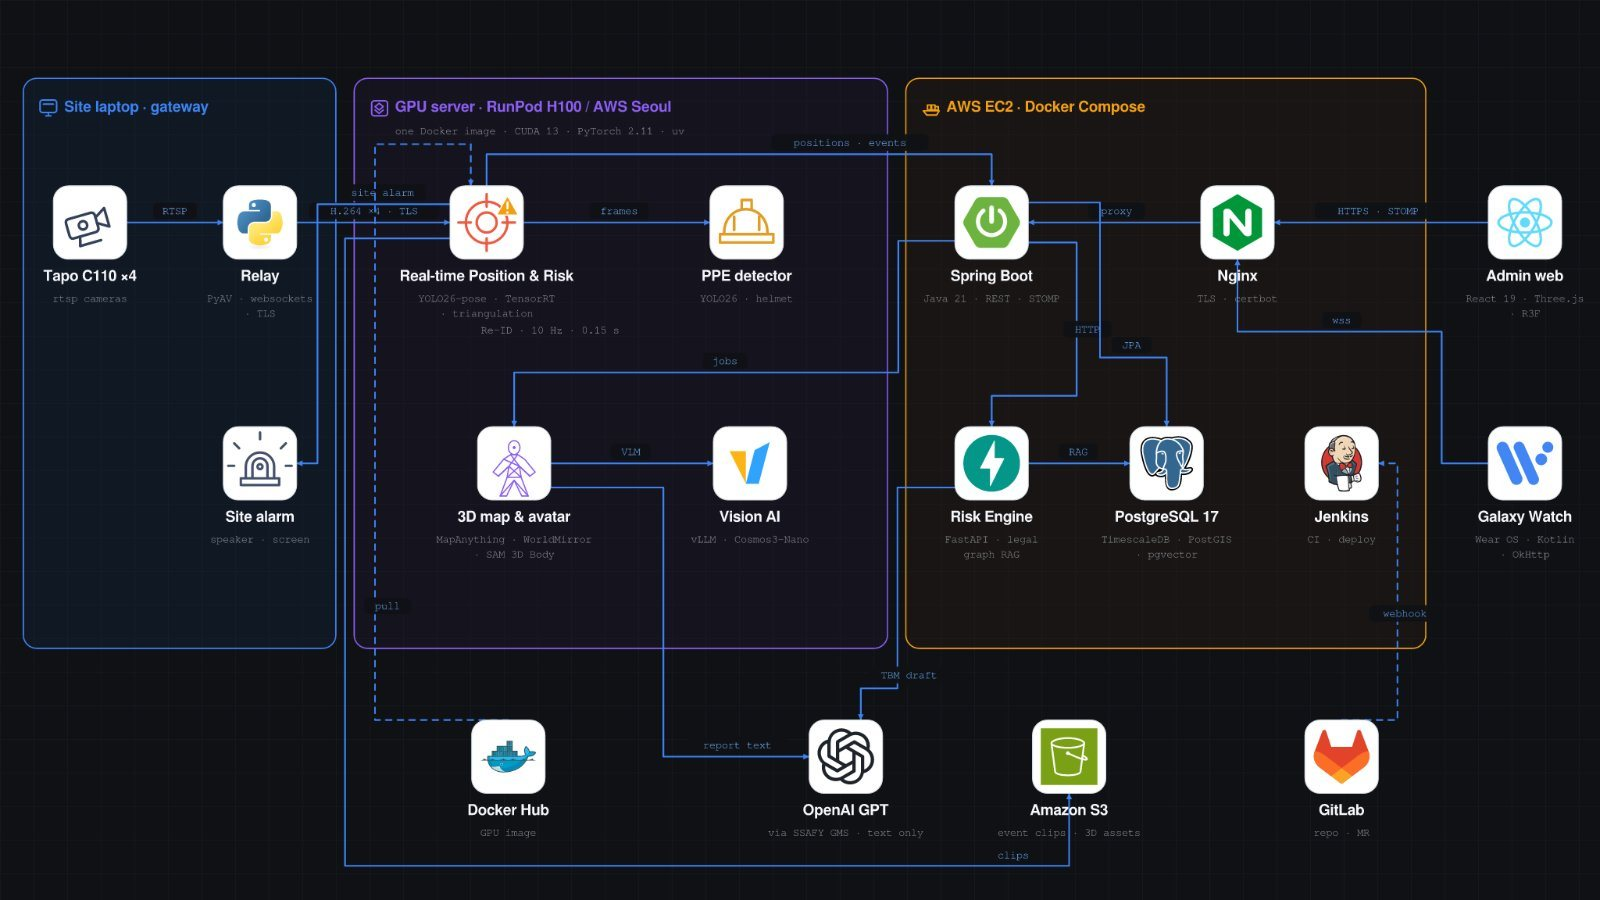
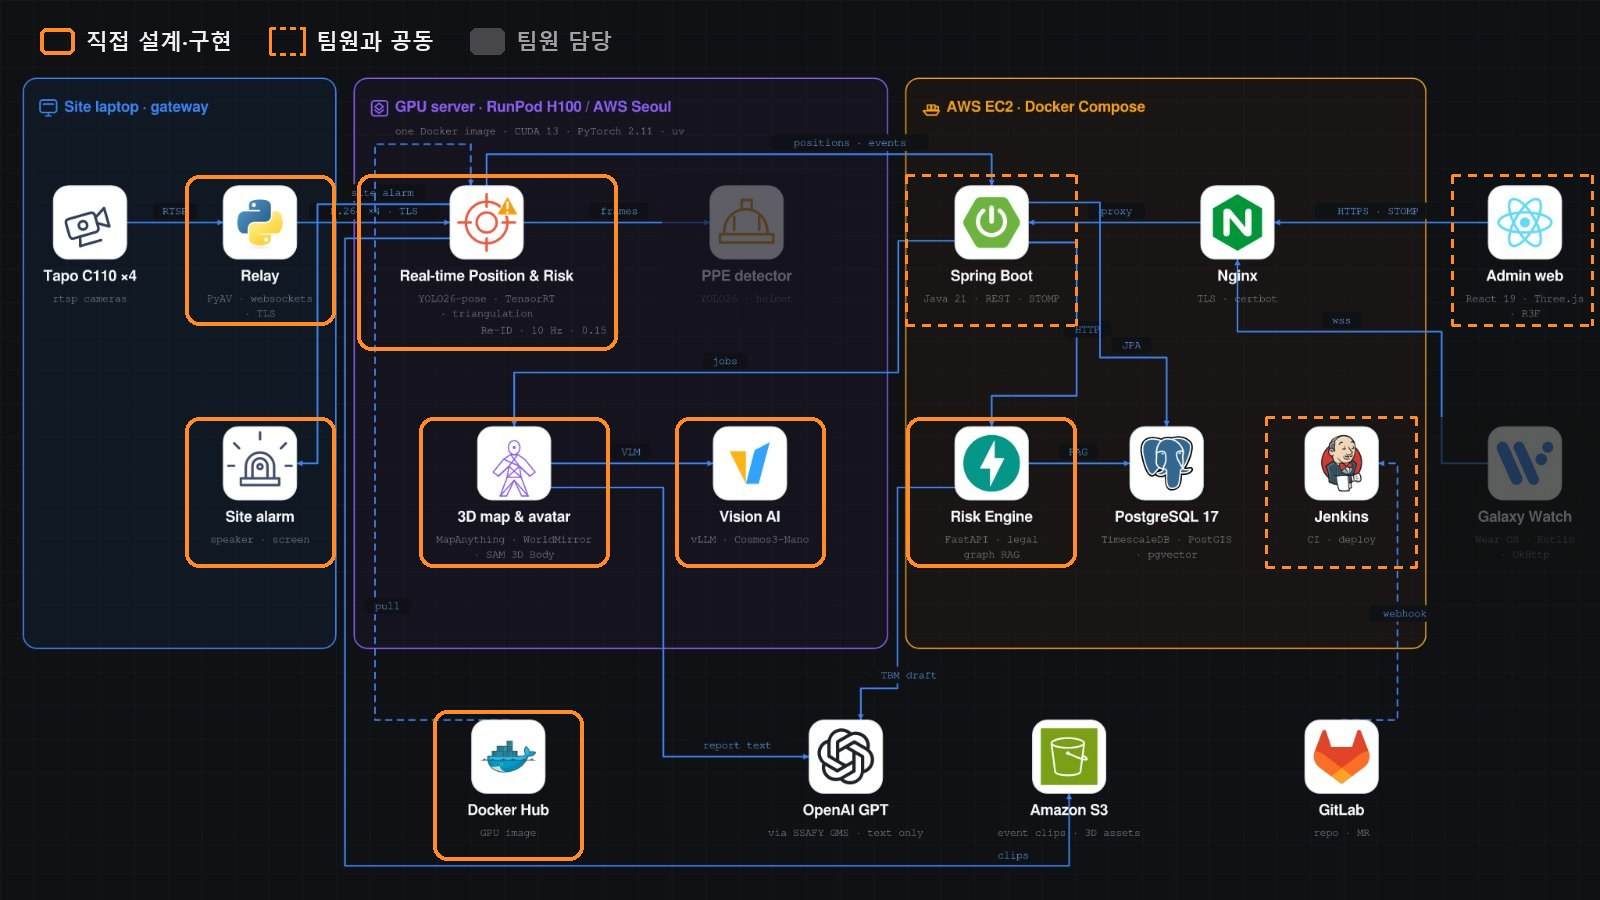
SimAI: show ownership on the architecture figure instead of per-figure tags

diff --git a/projects.js b/projects.js
@@ -15,24 +15,20 @@ const PROJECTS = [
     tags: ['Python', 'TensorRT', 'Three.js', 'Docker'],
     detail: {
       kicker: 'SSAFY 15기 자율 프로젝트 · Smart Integrated Monitoring AI',
-      info: [['기간', '2026.10 – 2026.11'], ['팀 인원', '5인'], ['나의 역할', '기술팀장 · 3D 추적·위험 판정 · AI 인프라'], ['기술', 'Python, YOLO26-pose, TensorRT, MapAnything·WorldMirror, vLLM(Cosmos3-Nano), GraphRAG, React·Three.js, Docker, AWS·RunPod, Jenkins']],
+      info: [['기간', '2026.10 – 2026.11'], ['팀 인원', '5인'], ['나의 역할', '기술팀장 · 시스템 설계와 AI·3D·인프라 구현'], ['기술', 'Python, YOLO26-pose, TensorRT, MapAnything·WorldMirror, vLLM(Cosmos3-Nano), GraphRAG, React·Three.js, Docker, AWS·RunPod, Jenkins']],
       overview: [
         '건설업 사망사고의 52.6%는 떨어짐 사고입니다. 현장마다 AI CCTV가 늘었지만, 2D 영상만 보는 AI는 사람이 "어디쯤" 있는지는 알아도 바닥에서 몇 m 위에 있는지, 개구부까지 얼마나 남았는지는 모릅니다. 매일 바뀌는 현장을 따라가지 못해 오탐이 쌓이고, 결국 경보를 꺼 두게 됩니다.',
         'SimAI는 추가 장비 없이 일반 CCTV 4대만으로 현장을 미터 단위 3D 공간으로 재현하고, 작업자를 3D 골격으로 추적해 위험 구역 진입·진입 예측·고소 작업·낙상 의심을 판정합니다. 판정 결과는 3D 관제 화면, 현장 경보음, 작업자 워치로 동시에 전달되고, 작업 전에는 현장 3D 맵 위에 AI가 위험 구역을 추천하고 법령 그래프로 TBM(작업 전 안전 대화) 보고서를 채웁니다. 카메라가 2대 미만에서만 본 관절은 지어내지 않고, 바닥을 모르면 높이를 0으로 채우지 않는 등 "모르면 비운다"를 판정 원칙으로 삼았습니다.'
       ],
       coverFig: { title: '위험 구역 접근 → 진입 경보',
-        desc: '작업자가 단상 개구부 쪽으로 다가가면 진입 예측으로 먼저 "위험구역 접근" 주의를 띄우고, 실제로 들어서면 "위험구역 진입" 위험 경보로 올립니다. 3D 관제 화면, 왼쪽 워치 화면, 현장 경보음이 같은 경보를 동시에 받습니다.',
-        mine: '내 담당: 3D 추적 · 위험 판정 · 경보 전달 경로' },
+        desc: '작업자가 단상 개구부 쪽으로 다가가면 진입 예측으로 먼저 "위험구역 접근" 주의를 띄우고, 실제로 들어서면 "위험구역 진입" 위험 경보로 올립니다. 3D 관제 화면, 왼쪽 워치 화면, 현장 경보음이 같은 경보를 동시에 받습니다.' },
       figs: [
+        { src: 'images/simai-arch.jpg', title: '시스템 구조와 제가 만든 범위',
+          desc: '주황 실선이 제가 설계하고 구현한 부분입니다. 현장 노트북의 영상 중계와 경보음, GPU 서버의 실시간 위치·위험 판정, 3D 맵·아바타, VLM 상황 해석, 법령 그래프 RAG(Risk Engine), 이 모두를 담은 GPU 이미지까지 처리 흐름의 처음부터 끝까지를 맡았습니다. 점선(서버·관제 웹·CI)은 팀원과 함께 만들었고, 흐리게 표시한 보호구 탐지 모델과 갤럭시 워치 앱은 팀원이 맡았습니다.' },
         { video: [V + 'simai-fall.mp4', V + 'simai-fall.jpg'], title: '낙상 의심 감지',
-          desc: '머리 높이와 자세가 급격히 낮아지면 낙상 의심으로 판정해 진행 중인 다른 경보와 상관없이 워치와 현장 경보음을 즉시 다시 울립니다. 넘어지는 순간 추적 ID가 갈라지지 않도록 새로 생긴 트랙을 원래 사람에게 흡수하는 보정도 넣었습니다.',
-          mine: '내 담당: 낙상 판정 · ID 유지 · 즉시 알림' },
-        { src: 'images/simai-arch.jpg', title: '시스템 아키텍처',
-          desc: '현장 노트북이 카메라 4대의 영상을 TLS로 GPU 서버에 중계하면, GPU 서버 하나의 Docker 이미지 안에서 실시간 위치·위험 판정, 3D 맵·아바타 생성, 보호구 탐지, VLM 상황 해석이 함께 돕니다. 판정 결과는 EC2의 Spring Boot를 거쳐 관제 웹과 워치로 전달되고, 법령 그래프 RAG가 TBM 보고서 초안을 만듭니다.',
-          mine: '내 담당: 현장 노트북 · 실시간 위치·위험 판정 · 3D 맵·아바타 · Risk Engine(법령 그래프 RAG) · GPU 이미지·배포' },
+          desc: '머리 높이와 자세가 급격히 낮아지면 낙상 의심으로 판정해 진행 중인 다른 경보와 상관없이 워치와 현장 경보음을 즉시 다시 울립니다. 넘어지는 순간 추적 ID가 갈라지지 않도록 새로 생긴 트랙을 원래 사람에게 흡수하는 보정도 넣었습니다.' },
         { video: [V + 'simai-setup.mp4', V + 'simai-setup.jpg'], title: '세팅 — 카메라 4대에서 3D 맵까지',
-          desc: '카메라 높이만 입력하면 배경 촬영 → 카메라 보정 → 3D 맵 생성 → AI 위험 구역 초안까지 세팅 화면 한 흐름으로 진행됩니다. 같은 현장이면 이전에 만든 맵을 GPU 없이 1~2분 만에 다시 씁니다.',
-          mine: '내 담당: 세팅 흐름 · 무마커 카메라 보정 · 맵 재사용' },
+          desc: '카메라 높이만 입력하면 배경 촬영 → 카메라 보정 → 3D 맵 생성 → AI 위험 구역 초안까지 세팅 화면 한 흐름으로 진행됩니다. 같은 현장이면 이전에 만든 맵을 GPU 없이 1~2분 만에 다시 씁니다.' },
         { pair: ['images/simai-cams.jpg', 'images/simai-map.jpg'], title: 'CCTV 4대로 만든 3D 공간',
           desc: '같은 시점에 찍힌 CCTV 4장(왼쪽)을 왜곡 보정한 뒤 카메라 위치와 깊이를 추정해 하나의 3D 맵(오른쪽)으로 융합합니다. LiDAR 같은 추가 장비 없이 만들었고, 점구름 바닥이 1° 남짓 기울어 카메라 높이가 최대 8 cm 어긋나던 문제는 카메라 실측 높이로 바닥 기울기를 보정해 최대 1.8 cm 안으로 맞췄습니다.' },
         { video: [V + 'simai-site.mp4', V + 'simai-site.jpg'], title: '실제 시연 현장',
@@ -40,11 +36,9 @@ const PROJECTS = [
         { src: 'images/simai-track.jpg', title: '다시점 삼각측량으로 3D 위치 측정',
           desc: '카메라마다 따로 붙인 2D 관절 ID를 카메라 쌍별로 검사해 같은 사람끼리 묶고, 다시점 삼각측량과 헝가리안 배정으로 하나의 3D ID를 유지합니다. 같은 키의 두 사람이 바닥과 단상에 서 있어도 높이로 구분하며, 검증 오차는 9 cm 이내입니다.' },
         { video: [V + 'simai-avatar.mp4', V + 'simai-avatar.jpg'], title: '실제 사람을 따라 움직이는 127관절 아바타',
-          desc: '추적한 사람에 127관절 3D 인체 모델(SAM 3D Body)을 맞추고, 카메라에 보인 옷 색을 입혀 실제 자세를 그대로 따라 움직이게 했습니다(왼쪽 아바타, 오른쪽 실제 촬영). 관제 화면에서 서 있는지, 웅크렸는지, 쓰러졌는지를 3D로 바로 볼 수 있습니다. 위치와 경보는 아바타가 아니라 삼각측량 결과로만 정합니다.',
-          mine: '내 담당: 아바타 생성 · 외형 입히기 · 관제 화면 스트림' },
+          desc: '추적한 사람에 127관절 3D 인체 모델(SAM 3D Body)을 맞추고, 카메라에 보인 옷 색을 입혀 실제 자세를 그대로 따라 움직이게 했습니다(왼쪽 아바타, 오른쪽 실제 촬영). 관제 화면에서 서 있는지, 웅크렸는지, 쓰러졌는지를 3D로 바로 볼 수 있습니다. 위치와 경보는 아바타가 아니라 삼각측량 결과로만 정합니다.' },
         { src: 'images/simai-graph.jpg', title: '법령 그래프 RAG로 채우는 TBM 보고서',
-          desc: '산업안전 법령의 참조·위임·준용 관계를 노드 7,963개·엣지 14,265개 그래프로 만들고 임베딩 검색과 결합해, 작업 공종에 맞는 위험 요인과 방호 조치를 찾아 TBM(작업 전 안전 대화) 보고서를 채웁니다. 외부 LLM에는 문장 작성만 맡기고 텍스트만 보냅니다.',
-          mine: '내 담당: 법령 그래프 · Risk Engine · TBM 보고서 API·화면' }
+          desc: '산업안전 법령의 참조·위임·준용 관계를 노드 7,963개·엣지 14,265개 그래프로 만들고 임베딩 검색과 결합해, 작업 공종에 맞는 위험 요인과 방호 조치를 찾아 TBM(작업 전 안전 대화) 보고서를 채웁니다. 외부 LLM에는 문장 작성만 맡기고 텍스트만 보냅니다.' }
       ],
       role: [
         '<b>기술팀장</b> — 기획서·요구사항·파트 간 JSON Schema 계약의 정본 관리, Jira 에픽·스토리 설계. Claude Code·Codex 등 AI 코딩 에이전트를 티켓 단위로 운영하며 요구·완료 조건 정의, 작업 분할, 결과 검증과 통합 담당',
@@ -410,7 +404,7 @@ const PROJECTS = [
 
 // 프로젝트 개요 맨 위 '한눈에 보기' — 문제 · 해결 · 핵심 · 결과
 const GLANCE = {
-  simai: [['문제', '2D CCTV AI는 사람의 높이와 개구부까지의 거리를 몰라 추락 위험을 놓치거나 오탐을 냄'], ['해결', '일반 CCTV 4대로 현장 3D 맵을 만들고 작업자를 미터 단위 3D 골격으로 추적'], ['핵심 기능', '3D 위치·자세 추적, 진입 예측·낙상 판정, 관제·워치·현장 경보, AI 구역 추천·TBM 보고서'], ['결과', 'CCTV 4대로 만든 3D 맵, 3D 위치 검증 오차 9 cm 이내, 촬영→워치 진동 0.3초']],
+  simai: [['내 역할', '기술팀장 — 시스템 구조를 설계하고 실시간 추적·위험 판정, 3D 맵·아바타, 법령 RAG, 현장·GPU 인프라를 직접 구현'], ['문제', '2D CCTV AI는 사람의 높이와 개구부까지의 거리를 몰라 추락 위험을 놓치거나 오탐을 냄'], ['해결', '일반 CCTV 4대로 현장 3D 맵을 만들고 작업자를 3D 골격으로 추적해 진입 예측·낙상을 판정, 관제·워치·현장 경보로 전달'], ['결과', 'CCTV 4대로 만든 3D 맵, 3D 위치 검증 오차 9 cm 이내, 촬영→워치 진동 0.3초']],
   pave: [['문제', '팀마다 검증 환경이 달라 자율주행 알고리즘을 공정하게 비교하기 어려움'], ['해결', '같은 시나리오·같은 규칙으로 반복 실행하고 점수로 비교하는 플랫폼'], ['핵심 기능', '실험 설정 GUI, LIVE 관제, PAVE Score·AI 분석, 알고리즘 교체'], ['결과', '설치부터 결과 확인까지 GUI로 끝나는 배포판 완성']],
   sentinel: [['문제', '붕괴 현장 진입 전에는 내부 통로와 요구조자 상태를 알 수 없음'], ['해결', '로봇이 먼저 들어가 지도를 만들고 사람을 찾아 상태를 확인'], ['핵심 기능', 'SLAM·Nav2 자율 탐사, 사람 탐지·접근·음성 대화, 관제 기록'], ['결과', '실제 차량으로 탐사부터 임무 종료까지 전체 시나리오 시연']],
   heogaon: [['문제', '창업자가 여러 부서와 서류를 스스로 찾아 순서대로 처리해야 함'], ['해결', '창업 계획 한 문장으로 영업 가능 여부와 필요 서류를 안내'], ['핵심 기능', '대화형 정보 수집, 건축물대장 기반 사전 진단, 서류 순서·작성 가이드'], ['결과', '103팀 중 6팀 본선 진출']],
